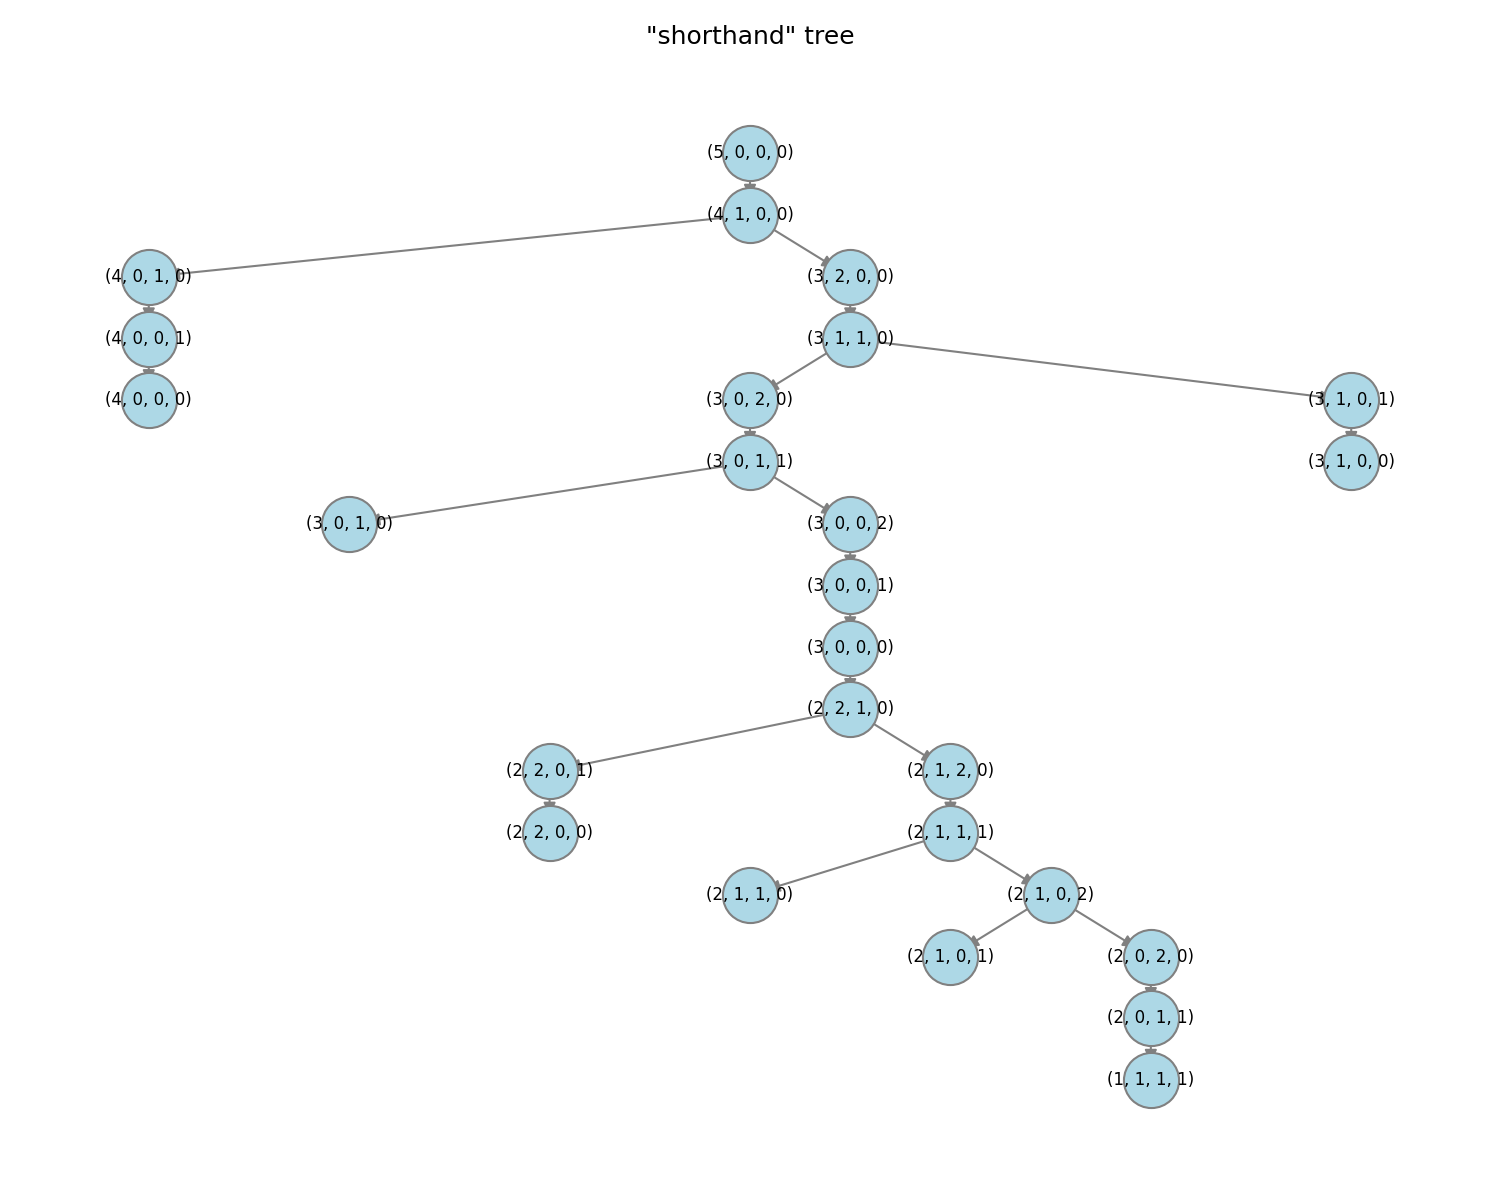
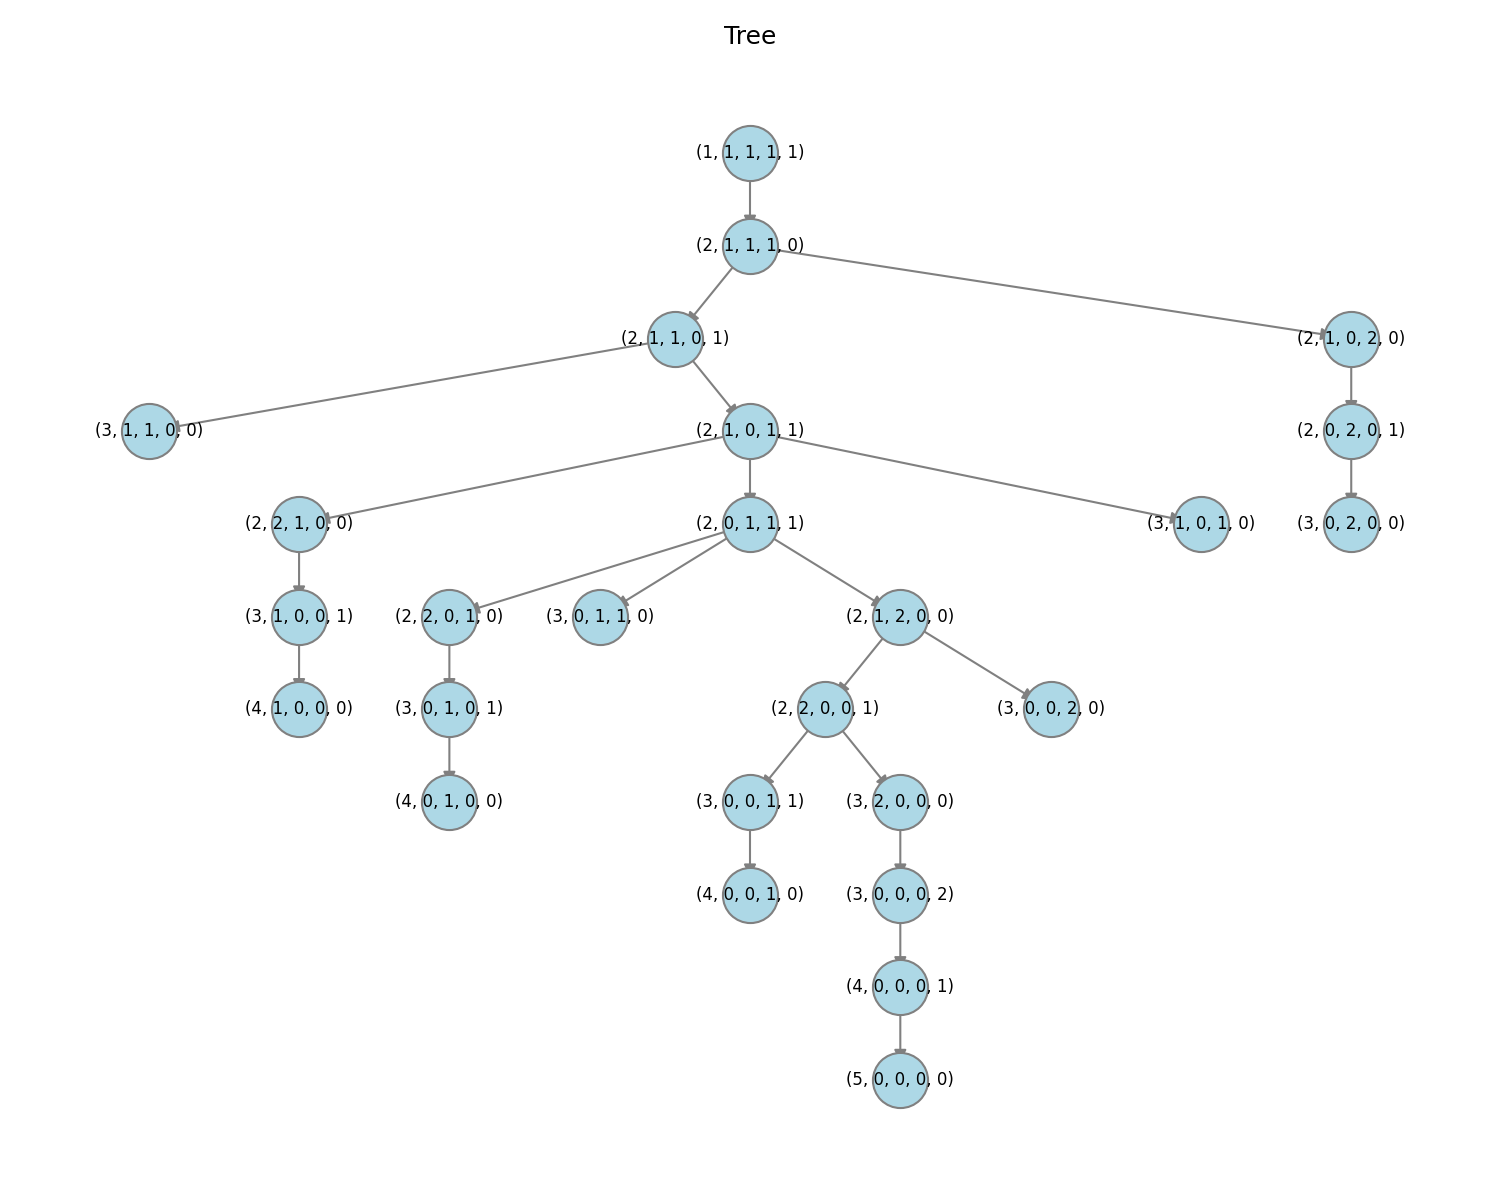
added parent rule from meeting with joe

diff --git a/parentTree.py b/parentTree.py
@@ -16,16 +16,16 @@ def parent_of(rep):
     """
     k = len(rep)
     arr = list(rep)
-    i = max(idx for idx, v in enumerate(arr) if v > 0)
+    i = min(idx for idx, v in enumerate(arr) if v > 0)
     arr[i] -= 1
-    left = (i - 1) % k
+    left = k - 1
     arr[left] += 1
     return get_representative(arr)
 
 def build_parent_tree(k, m):
     all_tuples = itertools.product(range(m+1), repeat=k)
     reps = { get_representative(list(t)) for t in all_tuples if sum(t)==m }
-    root = get_representative([m] + [0]*(k-1))
+    root = (1,1,1,1,1) #get_representative([m] + [0]*(k-1))
     tree = defaultdict(list)
     for rep in reps:
         if rep == root:
@@ -132,7 +132,7 @@ def plot_tree(tree: Dict[Tuple[int, ...], List[Tuple[int, ...]]], root: Tuple[in
             font_size=8
         )
 
-    plt.title("\"shorthand\" tree")
+    plt.title("Tree")
     plt.axis('off')
     plt.tight_layout()
     plt.savefig(filename, dpi=150)
@@ -140,9 +140,9 @@ def plot_tree(tree: Dict[Tuple[int, ...], List[Tuple[int, ...]]], root: Tuple[in
 
 # Example usage:
 if __name__ == "__main__":
-    k, m = 5, 5
+    k, m = 5,5
     tree, root = build_parent_tree(k, m)
-    plot_tree(tree, root,shorthand=True)
+    plot_tree(tree, root,shorthand=False)
 
 
 

diff --git a/tree.py b/tree.py
@@ -112,7 +112,7 @@ def main():
         k = int(sys.argv[1])
         m = int(sys.argv[2])
     else:
-        k, m = 4, 4
+        k, m = 4, 4  
 
     print(f"Building tree for k={k}, m={m}", file=sys.stderr)
     tree = build_content_tree(k, m)
